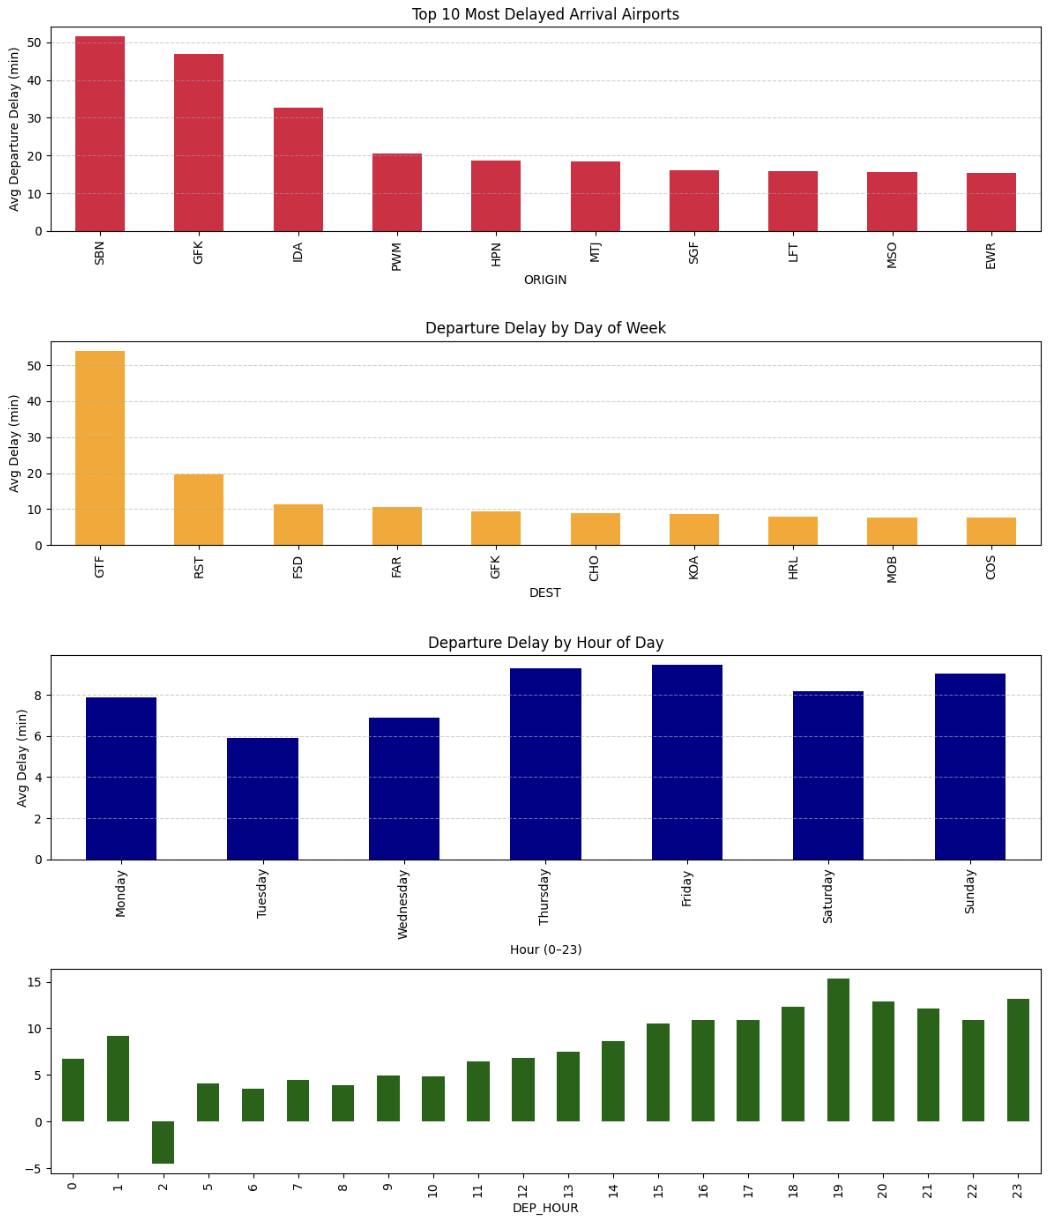
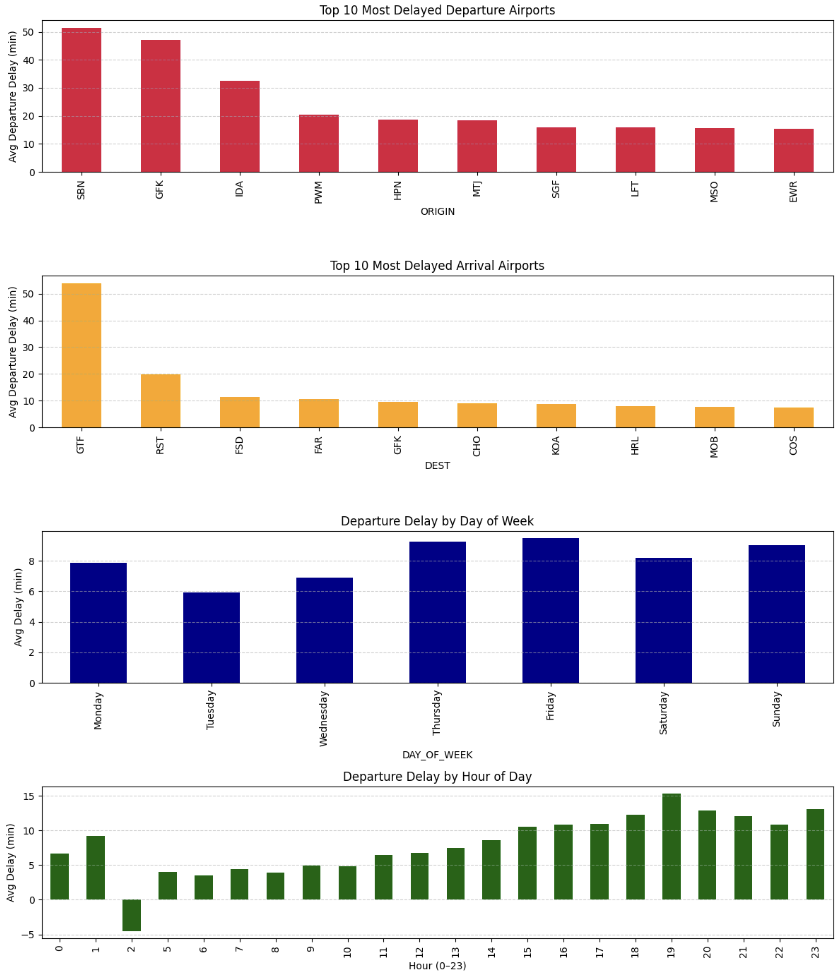
M3: final plots fixup

diff --git a/final_plots/final_plots.py b/final_plots/final_plots.py
@@ -49,22 +49,22 @@ axes[0].grid(True, axis='y', linestyle='--', alpha=0.6)
 
 # 2. Arrival Airports
 arrvial_delay.plot(kind='bar', ax=axes[1], color='orange')
-axes[0].set_title('Top 10 Most Delayed Arrival Airports')
-axes[0].set_ylabel('Avg Departure Delay (min)')
-axes[0].grid(True, axis='y', linestyle='--', alpha=0.6)
+axes[1].set_title('Top 10 Most Delayed Arrival Airports')
+axes[1].set_ylabel('Avg Departure Delay (min)')
+axes[1].grid(True, axis='y', linestyle='--', alpha=0.6)
 
 # 3. Day of Week
 dow_delay.plot(kind='bar', ax=axes[2], color='darkblue')
-axes[1].set_title('Departure Delay by Day of Week')
-axes[1].set_ylabel('Avg Delay (min)')
-axes[1].grid(True, axis='y', linestyle='--', alpha=0.6)
+axes[2].set_title('Departure Delay by Day of Week')
+axes[2].set_ylabel('Avg Delay (min)')
+axes[2].grid(True, axis='y', linestyle='--', alpha=0.6)
 
 # 4. Hour of Day
 hour_delay.plot(kind='bar', ax=axes[3], color='darkgreen')
-axes[2].set_title('Departure Delay by Hour of Day')
-axes[2].set_xlabel('Hour (0–23)')
-axes[2].set_ylabel('Avg Delay (min)')
-axes[2].grid(True, axis='y', linestyle='--', alpha=0.6)
+axes[3].set_title('Departure Delay by Hour of Day')
+axes[3].set_xlabel('Hour (0–23)')
+axes[3].set_ylabel('Avg Delay (min)')
+axes[3].grid(True, axis='y', linestyle='--', alpha=0.6)
 
 plt.tight_layout()
 plt.show()
